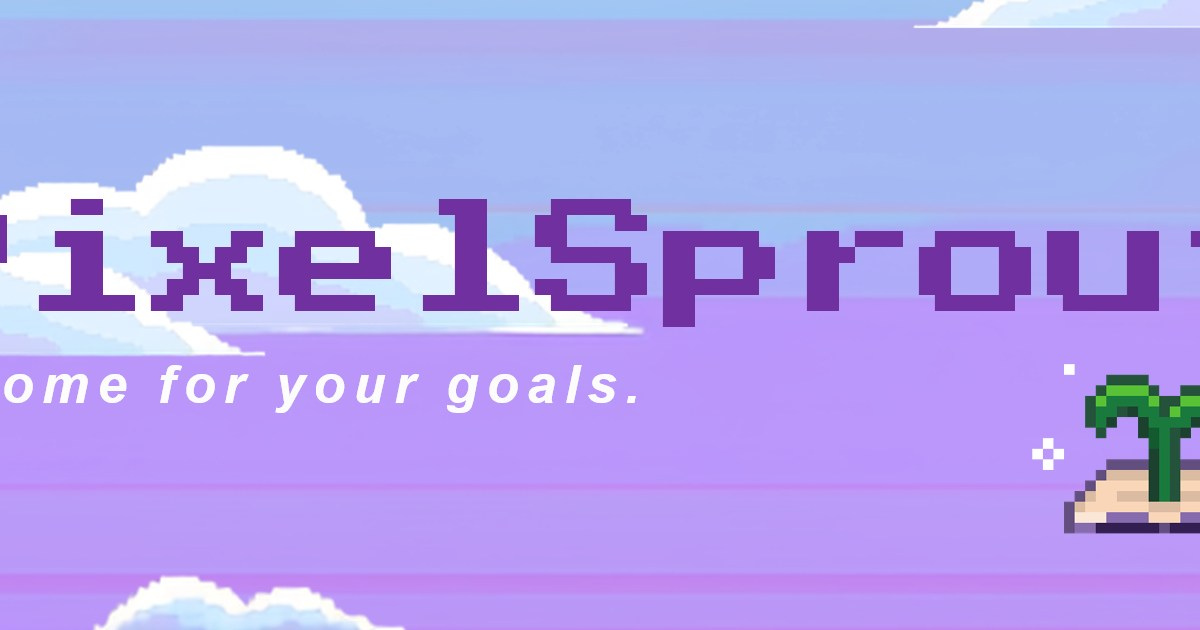
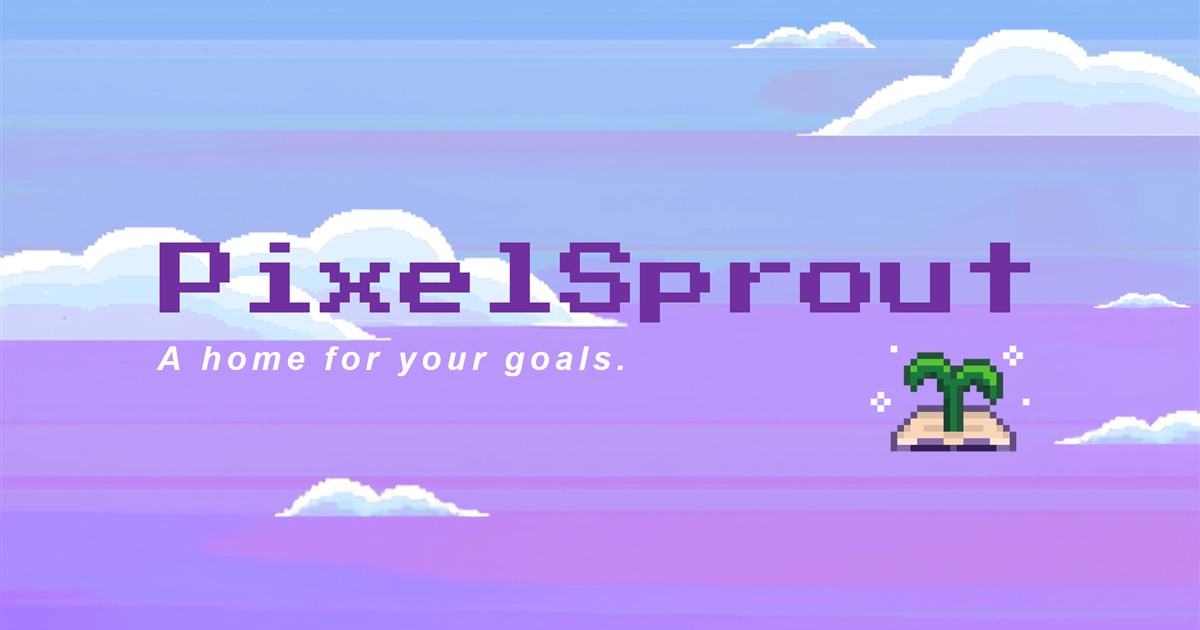
design fixes

diff --git a/css/styles.css b/css/styles.css
@@ -1016,6 +1016,7 @@ body {
 
     .draw-group {
         align-items: center;
+        margin-top: 1.5rem;
     }
 
     /* Sponsors */
@@ -1093,7 +1094,7 @@ body {
         height: 100%;
         object-fit: cover;
         object-position: center;
-        opacity: 0.6;
+        opacity: 1;
         z-index: 0;
     }
 
@@ -1104,7 +1105,7 @@ body {
         left: 0;
         right: 0;
         bottom: 0;
-        background: rgba(245, 240, 255, 0.45);
+        background: rgba(245, 240, 255, 0.15);
         z-index: 1;
     }
 